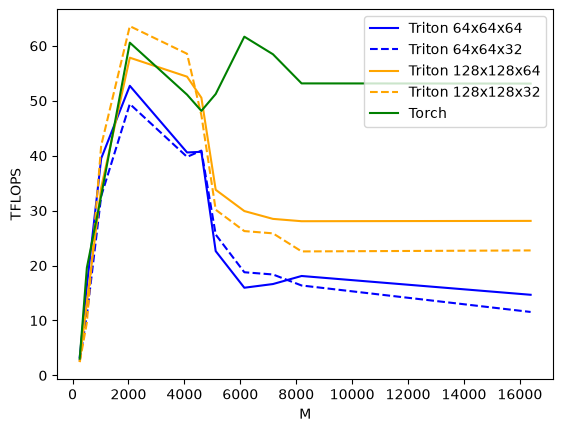
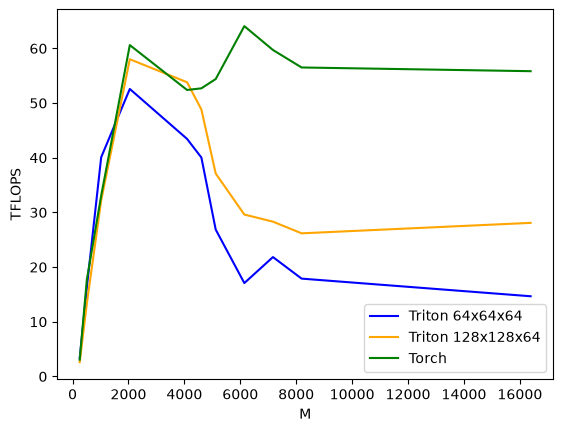
changes

diff --git a/triton_work/matrix_multiplication.py b/triton_work/matrix_multiplication.py
@@ -348,18 +348,16 @@ def matrix_multiplication_tiled(
         line_arg='provider',
         line_vals=[
             'triton_tiled_64_64_64',
-            'triton_tiled_64_64_32',
             'triton_tiled_128_128_64',
-            'triton_tiled_128_128_32',
             'torch',
         ],
         line_names=[
-            'Triton 64x64x64', 'Triton 64x64x32',
-            'Triton 128x128x64', 'Triton 128x128x32', 'Torch',
+            'Triton 64x64x64',
+            'Triton 128x128x64', 'Torch',
         ],
         styles=[
-            ('blue', '-'), ('blue', '--'),
-            ('orange', '-'), ('orange', '--'), ('green', '-'),
+            ('blue', '-'),
+            ('orange', '-'), ('green', '-'),
         ],
         ylabel='TFLOPS',
         plot_name='matmul-tiled-vs-torch-fp16',
@@ -375,17 +373,9 @@ def benchmark_tiled(M, N, K, provider):
         ms = triton.testing.do_bench(
             lambda: matrix_multiplication_tiled(a, b, 64, 64, 64)
         )
-    elif provider == 'triton_tiled_64_64_32':
-        ms = triton.testing.do_bench(
-            lambda: matrix_multiplication_tiled(a, b, 64, 64, 32)
-        )
     elif provider == 'triton_tiled_128_128_64':
         ms = triton.testing.do_bench(
             lambda: matrix_multiplication_tiled(a, b, 128, 128, 64)
-        )
-    elif provider == 'triton_tiled_128_128_32':
-        ms = triton.testing.do_bench(
-            lambda: matrix_multiplication_tiled(a, b, 128, 128, 32)
         )
     elif provider == 'torch':
         ms = triton.testing.do_bench(lambda: torch.matmul(a, b))

diff --git a/triton_work/matrix_multiplication.md b/triton_work/matrix_multiplication.md
@@ -231,18 +231,18 @@ We will be using square matrices once again.
 ![FP16 matrix multiplication performance: tiled Triton, and PyTorch](figures/matmul_tiled_blocksizes.png)
 
 matmul-tiled-vs-torch-fp16:
-          M        N        K  Triton 64x64x64  Triton 64x64x32  Triton 128x128x64  Triton 128x128x32      Torch
-0     256.0    256.0    256.0         3.277117         2.677999           2.638757           2.413236   3.044038
-1     512.0    512.0    512.0        16.363027        10.972446          13.228417           9.628797  19.607187
-2    1024.0   1024.0   1024.0        39.500768        32.638791          34.178652          41.845382  32.695045
-3    2048.0   2048.0   2048.0        52.727315        49.424401          57.844617          63.590078  60.582112
-4    4096.0   4096.0   4096.0        40.592372        39.786075          54.389835          58.560366  51.110964
-5    4608.0   4608.0   4608.0        40.706320        40.929206          50.553000          47.368670  48.158197
-6    5120.0   5120.0   5120.0        22.628278        25.640121          33.793592          30.160854  51.234158
-7    6144.0   6144.0   6144.0        15.961657        18.780186          29.921488          26.273706  61.671232
-8    7168.0   7168.0   7168.0        16.633684        18.375466          28.497214          25.864553  58.471390
-9    8192.0   8192.0   8192.0        18.099467        16.371548          28.072610          22.572190  53.165160
-10  16384.0  16384.0  16384.0        14.678573        11.551419          28.131726          22.752708  53.134803
+          M        N        K  Triton 64x64x64  Triton 128x128x64      Torch
+0     256.0    256.0    256.0         3.321312           2.617146   3.063213
+1     512.0    512.0    512.0        16.344097          13.393646  17.739589
+2    1024.0   1024.0   1024.0        40.089692          32.203279  33.063282
+3    2048.0   2048.0   2048.0        52.578786          58.014931  60.604645
+4    4096.0   4096.0   4096.0        43.445212          53.805863  52.393391
+5    4608.0   4608.0   4608.0        40.038352          48.826759  52.697203
+6    5120.0   5120.0   5120.0        26.867392          37.117943  54.394575
+7    6144.0   6144.0   6144.0        17.078184          29.612991  64.068548
+8    7168.0   7168.0   7168.0        21.833254          28.313260  59.709510
+9    8192.0   8192.0   8192.0        17.893498          26.176944  56.509382
+10  16384.0  16384.0  16384.0        14.667996          28.089333  55.831171
 
 Remember that for the L4 GPU, we have the following properties:
 - 58 SMs
